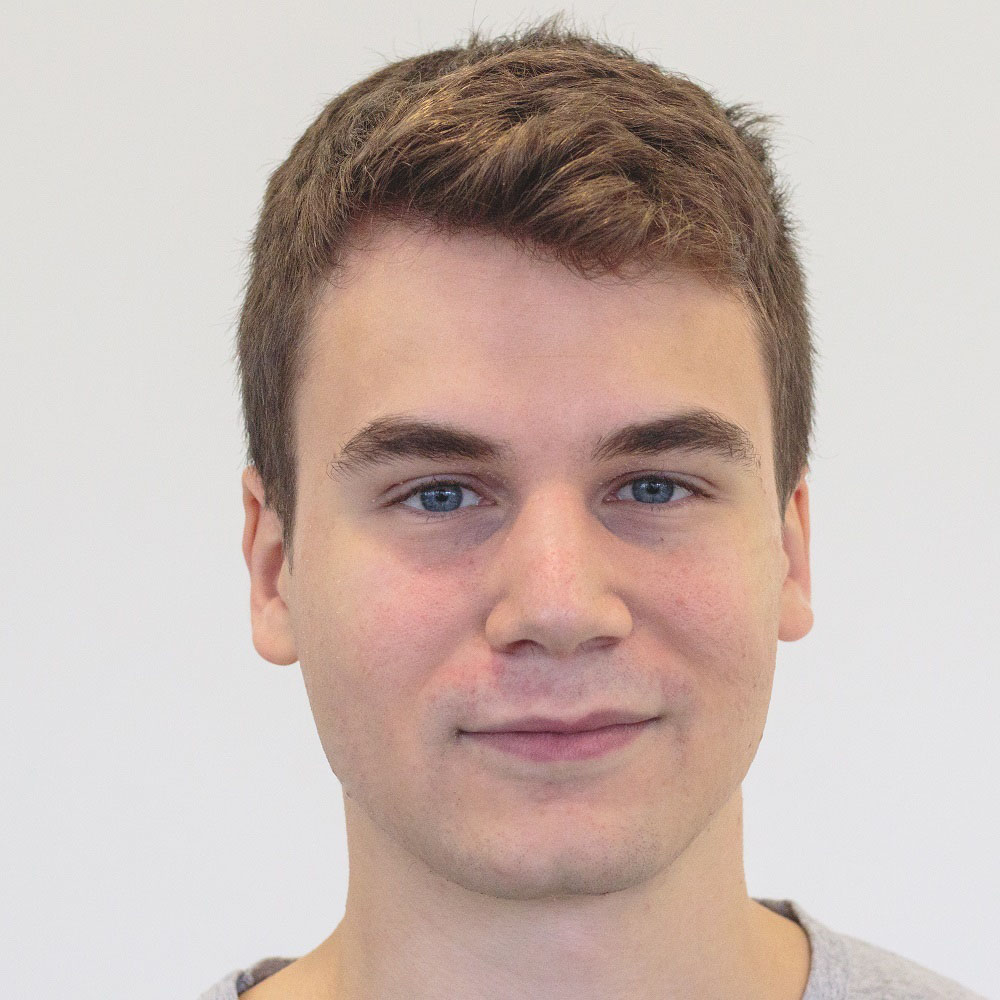
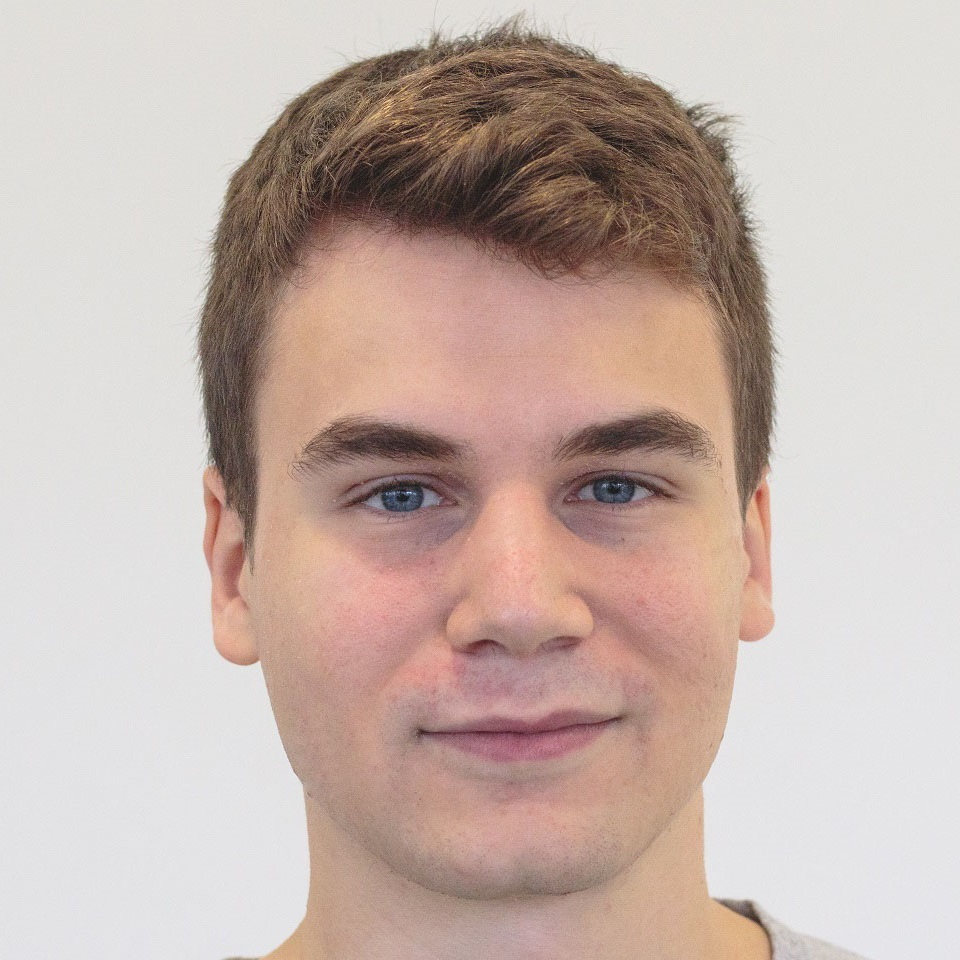
test

diff --git a/css/style.css b/css/style.css
@@ -27,6 +27,12 @@ a {
     -webkit-tap-highlight-color: transparent;
 }
 
+img {
+	height: 100%;
+	width: 100%;
+	object-fit: cover;
+}
+
 .section-title {
     font-size: 4rem;
     font-weight: 300;
@@ -282,24 +288,22 @@ a {
     background-color: rgb(30, 30, 30);
 }
 
-#about .about {
-    flex-direction: column-reverse;
-    text-align: center;
-    max-width: 1200px;
-    margin: 0 auto;
-    padding: 100px 20px;
+#about img {
+    border-radius: 6%;
+    width: 90%;
+    margin-left: 10px;
 }
 
 #about .col-left {
-    width: 250px;
-    height: 360px;
+	width: 250px;
+	height: 360px;
 }
-
 #about .col-right {
-    width: 100%;
+	width: 100%;
 }
-
-
+#about .col-right p {
+	margin-bottom: 20px;
+}
 
 /* About Section End */
 
@@ -388,6 +392,32 @@ a {
 }
 
 /* Keyframes End */
+
+/* Media Query For Tablet */
+@media only screen and (min-width: 768px) {
+    h1.section-title {
+		font-size: 6rem;
+	}
+    
+    /* About */
+	#about .about {
+		flex-direction: row;
+	}
+	#about .col-left {
+		width: 600px;
+		height: 400px;
+		padding-left: 60px;
+	}
+	#about .col-right {
+		text-align: left;
+		padding: 30px;
+	}
+	#about .col-right h1 {
+		text-align: left;
+	}
+	/* End About */
+}
+/* End Media Query For Tablet */
 
 /* Media query for desktop Begin */
 

diff --git a/js/app.js b/js/app.js
@@ -29,6 +29,6 @@ menu_item.forEach((item) => {
         setTimeout(() => {
             hamburger.classList.toggle('active');
 		    mobile_menu.classList.toggle('active');
-        }, 200);
+        }, 100);
 	});
 });
